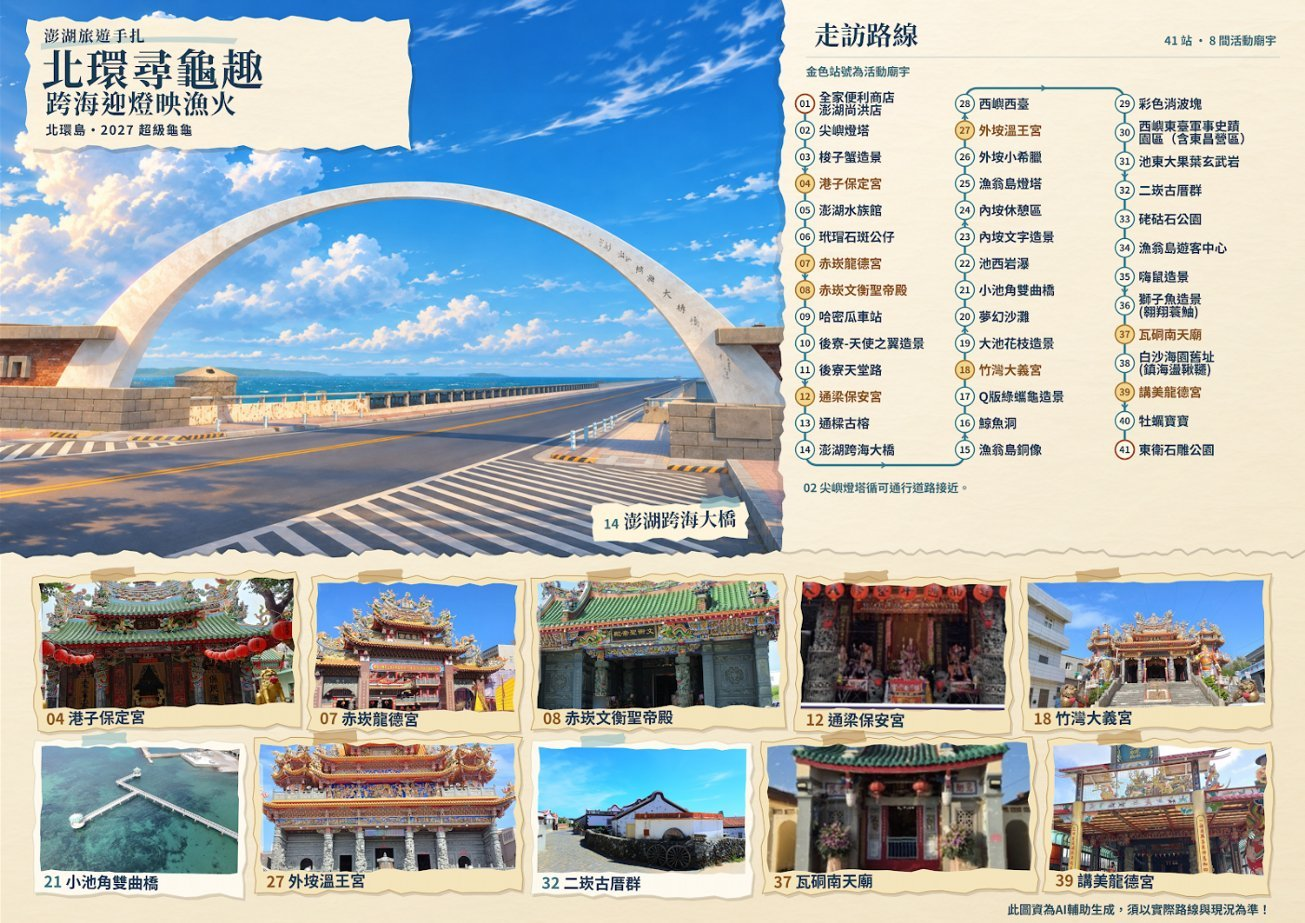
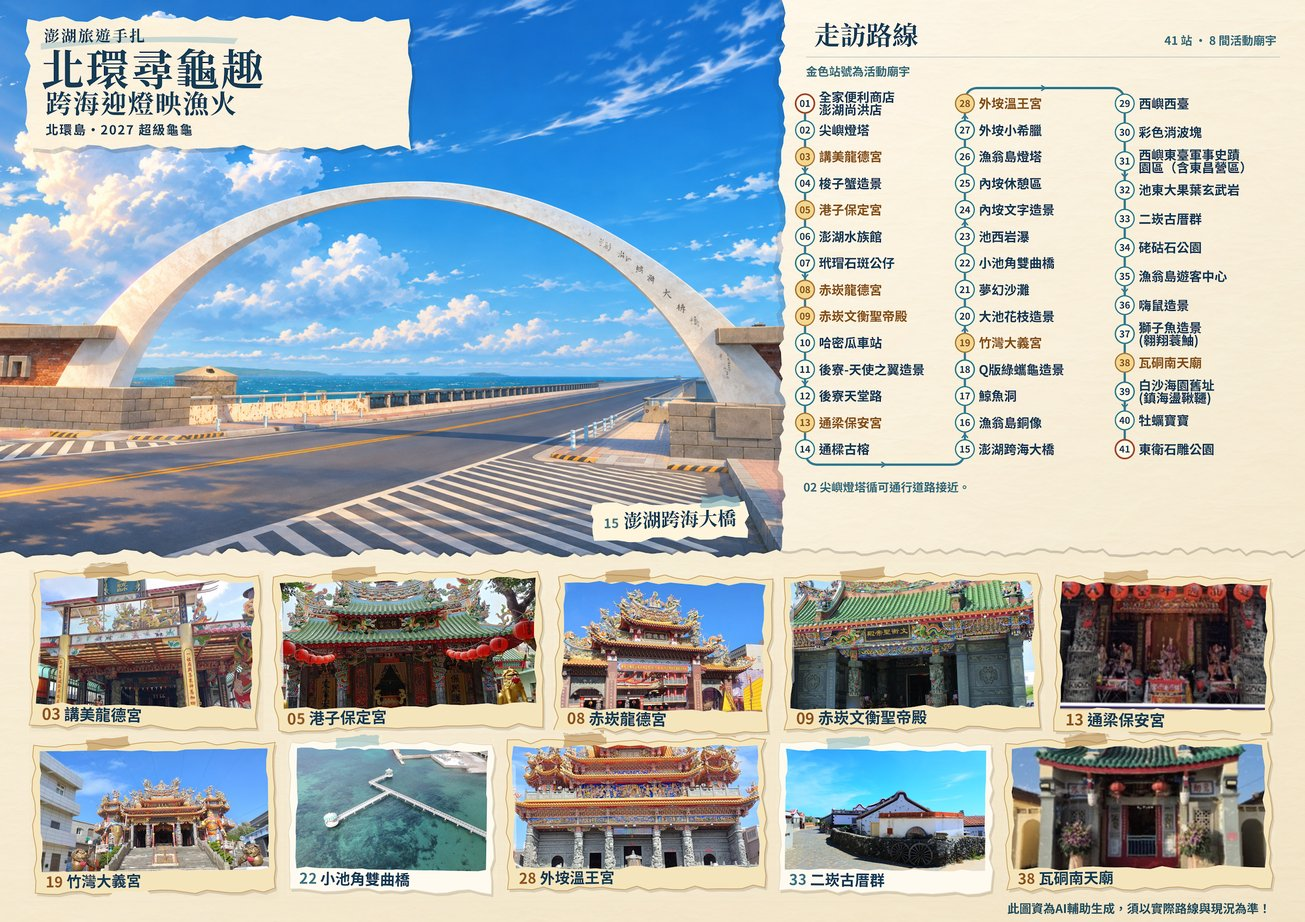
北環島：依新版路線DM更新站序與圖資（講美龍德宮改為03）
Claude-Session: https://claude.ai/code/session_01HgLVpJfKdPbhLtxxXVaDMx

diff --git a/data.js b/data.js
@@ -25,6 +25,12 @@ const ROUTES = [
      },
      {
       "n": 3,
+      "name": "講美龍德宮",
+      "t": "講美-龍德宮",
+      "tk": "講美-龍德宮@23.6324888,119.5988571"
+     },
+     {
+      "n": 4,
       "name": "梭子蟹造景",
       "pic": "1Czzuw9HyphtnWK4wGGaq4qwFqMhpqVzX",
       "place": "白沙鄉／鎮海村",
@@ -33,13 +39,13 @@ const ROUTES = [
       "lng": 119.5974808
      },
      {
-      "n": 4,
+      "n": 5,
       "name": "港子保定宮",
       "t": "港子-保定宮",
       "tk": "港子-保定宮@23.6489133,119.5997511"
      },
      {
-      "n": 5,
+      "n": 6,
       "name": "澎湖水族館",
       "pic": "1mvpMINSq6YpOrHgelwINVAgcqMt6oO91",
       "place": "白沙鄉／岐頭村",
@@ -49,7 +55,7 @@ const ROUTES = [
       "lng": 119.6038627
      },
      {
-      "n": 6,
+      "n": 7,
       "name": "玳瑁石斑公仔",
       "place": "白沙鄉／岐頭村",
       "desc": "位於白沙鄉岐頭村及跨海大橋旁的地景藝術，以澎湖縣魚「玳瑁石斑」為主題，魚身六角形魚鱗彩繪著澎湖各地海洋與人文意象。",
@@ -57,19 +63,19 @@ const ROUTES = [
       "lng": 119.6083619
      },
      {
-      "n": 7,
+      "n": 8,
       "name": "赤崁龍德宮",
       "t": "赤崁-龍德宮",
       "tk": "赤崁-龍德宮@23.6675224,119.6006196"
      },
      {
-      "n": 8,
+      "n": 9,
       "name": "赤崁文衡聖帝殿",
       "t": "赤崁-文衡聖帝殿",
       "tk": "赤崁-文衡聖帝殿@23.6699629,119.6002166"
      },
      {
-      "n": 9,
+      "n": 10,
       "name": "哈密瓜車站",
       "pic": "1LFeggbkD44xyHqjQVZDyzBGmC7PzCowf",
       "place": "白沙鄉／後寮村",
@@ -78,7 +84,7 @@ const ROUTES = [
       "lng": 119.5712313
      },
      {
-      "n": 10,
+      "n": 11,
       "name": "後寮-天使之翼造景",
       "pic": "18S7O4EjL-t4oKD3eTFFRtkDYSM175vax",
       "place": "白沙鄉／後寮村",
@@ -87,7 +93,7 @@ const ROUTES = [
       "lng": 119.5772578
      },
      {
-      "n": 11,
+      "n": 12,
       "name": "後寮天堂路",
       "pic": "1f2LajtB2_nktp7ZrF5lWVF3IjD9juAF_",
       "place": "白沙鄉／後寮村",
@@ -96,13 +102,13 @@ const ROUTES = [
       "lng": 119.5783015
      },
      {
-      "n": 12,
+      "n": 13,
       "name": "通梁保安宮",
       "t": "保安宮",
       "tk": "保安宮@23.6570217,119.5573742"
      },
      {
-      "n": 13,
+      "n": 14,
       "name": "通樑古榕",
       "pic": "1e5SD2V9jrsbQbtkVoA4olTd0scl1pScV",
       "place": "白沙鄉／通梁村",
@@ -111,7 +117,7 @@ const ROUTES = [
       "lng": 119.557313
      },
      {
-      "n": 14,
+      "n": 15,
       "name": "澎湖跨海大橋",
       "pic": "1jAIIZdBO3cQJJBii_HdDX_r2QKco3Z4N",
       "place": "白沙鄉／通梁村",
@@ -125,7 +131,7 @@ const ROUTES = [
     "title": "西嶼・西岸",
     "stops": [
      {
-      "n": 15,
+      "n": 16,
       "name": "漁翁島銅像",
       "place": "西嶼鄉／橫礁村",
       "desc": "矗立於西嶼鄉橫礁村、澎湖跨海大橋西嶼端橋頭逾三十年的代表性地標，銅像刻畫頭戴斗笠、手握船槳與漁獲的傳統漁翁形象，象徵西嶼「漁翁島」的討海精神。",
@@ -133,7 +139,7 @@ const ROUTES = [
       "lng": 119.5396532
      },
      {
-      "n": 16,
+      "n": 17,
       "name": "鯨魚洞",
       "pic": "1gRPh1NXkQzrAaXQc9m2A-BLJOln2U3H8",
       "place": "西嶼鄉／小門村",
@@ -142,7 +148,7 @@ const ROUTES = [
       "lng": 119.5198044
      },
      {
-      "n": 17,
+      "n": 18,
       "name": "Q版綠蠵龜造景",
       "pic": "1YFIhMiviXAi2Q5BuYSE2jQ_8ctqJ7oFN",
       "place": "西嶼鄉／竹灣村",
@@ -151,13 +157,13 @@ const ROUTES = [
       "lng": 119.5170189
      },
      {
-      "n": 18,
+      "n": 19,
       "name": "竹灣大義宮",
       "t": "竹灣-大義宮",
       "tk": "竹灣-大義宮@23.6329013,119.5213709"
      },
      {
-      "n": 19,
+      "n": 20,
       "name": "大池花枝造景",
       "pic": "1wTTFmwLMzyrbmhT0hRJ1SJyFX1BzyFhq",
       "place": "西嶼鄉／大池村",
@@ -166,7 +172,7 @@ const ROUTES = [
       "lng": 119.5132683
      },
      {
-      "n": 20,
+      "n": 21,
       "name": "夢幻沙灘",
       "pic": "1k2uHLI4kSS3s71X1oVEW6OIYEcrTcRoi",
       "place": "西嶼鄉／大池村",
@@ -175,7 +181,7 @@ const ROUTES = [
       "lng": 119.5088655
      },
      {
-      "n": 21,
+      "n": 22,
       "name": "小池角雙曲橋",
       "pic": "1tWe0hHYKGHZsZdAiJ53O9Nv0IIyszbpc",
       "place": "西嶼鄉／池西村",
@@ -184,7 +190,7 @@ const ROUTES = [
       "lng": 119.5044665
      },
      {
-      "n": 22,
+      "n": 23,
       "name": "池西岩瀑",
       "pic": "1N0FUGb1yvA5jMHYxsztzVHW52SJub2AJ",
       "place": "西嶼鄉／池西村",
@@ -193,7 +199,7 @@ const ROUTES = [
       "lng": 119.5024858
      },
      {
-      "n": 23,
+      "n": 24,
       "name": "內垵文字造景",
       "pic": "1XBjLXMhN6r8jFFCinab2wgOQNCzSf82q",
       "place": "西嶼鄉／赤馬村",
@@ -202,7 +208,7 @@ const ROUTES = [
       "lng": 119.5025922
      },
      {
-      "n": 24,
+      "n": 25,
       "name": "內垵休憩區",
       "pic": "1abPZoDKnOpgvYaMsYqM5JBuaPxqEdAI6",
       "place": "西嶼鄉／內垵村",
@@ -211,7 +217,7 @@ const ROUTES = [
       "lng": 119.4938758
      },
      {
-      "n": 25,
+      "n": 26,
       "name": "漁翁島燈塔",
       "pic": "1LTZsU2z_-FbleTj7v1nK8XX_jYgcmMEz",
       "place": "西嶼鄉／外垵村",
@@ -221,18 +227,18 @@ const ROUTES = [
       "lng": 119.4691038
      },
      {
-      "n": 26,
+      "n": 27,
       "name": "外垵小希臘",
       "pic": "1MjsRhbwYcR8jL2OpL3m5v_OrYsaWXiEI"
      },
      {
-      "n": 27,
+      "n": 28,
       "name": "外垵溫王宮",
       "t": "外垵-温王宮",
       "tk": "外垵-温王宮@23.5647630,119.4828470"
      },
      {
-      "n": 28,
+      "n": 29,
       "name": "西嶼西臺",
       "place": "西嶼鄉／外垵村",
       "desc": "澎湖現存規模最大、最完整的清代海防砲臺，扼守馬公港西側。原址砲臺曾於1717年及中法戰爭時重建，1887至1889年間由澎湖總兵吳宏洛在德籍技師協助下全面改建，配置英國阿姆斯壯後膛砲與一對銅砲，外門石額為劉銘傳親題；磚造拱道、營舍、砲位與雙重土垣保存良好，為國定古蹟。",
@@ -240,7 +246,7 @@ const ROUTES = [
       "lng": 119.489722
      },
      {
-      "n": 29,
+      "n": 30,
       "name": "彩色消波塊",
       "pic": "1uj-278MZEr1Ous8MHI1GQXxSvReLpKIH",
       "place": "西嶼鄉／內垵村",
@@ -254,7 +260,7 @@ const ROUTES = [
     "title": "西嶼東岸・北環折返",
     "stops": [
      {
-      "n": 30,
+      "n": 31,
       "name": "西嶼東臺軍事史蹟園區（含東昌營區）",
       "place": "西嶼鄉／內垵村",
       "desc": "清光緒13至15年（1887–1889）劉銘傳主政時，由澎湖總兵吳宏洛督建的海防砲臺，原配英國阿姆斯壯後膛砲，扼守馬公港南側航道；日治時期1901年改裝12吋砲，1941年除役。方形土垣、乾壕、磚造拱頂營舍及砲位保存完整，為國定古蹟。",
@@ -262,12 +268,12 @@ const ROUTES = [
       "lng": 119.5081224
      },
      {
-      "n": 31,
+      "n": 32,
       "name": "池東大果葉玄武岩",
       "pic": "11qwDxXofrwUpLi1uk77T47yhGIoWTOCv"
      },
      {
-      "n": 32,
+      "n": 33,
       "name": "二崁古厝群",
       "pic": "1YgYOqD5K7EoaBegXdXnS3cNvlqKh8O59",
       "place": "西嶼鄉／二崁村",
@@ -276,7 +282,7 @@ const ROUTES = [
       "lng": 119.519615
      },
      {
-      "n": 33,
+      "n": 34,
       "name": "硓𥑮石公園",
       "pic": "1I8IFtwczG7C1al7X4VgRWpXvK26p_Wxq",
       "place": "西嶼鄉／合界村",
@@ -285,11 +291,11 @@ const ROUTES = [
       "lng": 119.5329884
      },
      {
-      "n": 34,
+      "n": 35,
       "name": "漁翁島遊客中心"
      },
      {
-      "n": 35,
+      "n": 36,
       "name": "嗨鼠造景",
       "pic": "1ZxnTJs_UjLoi1QIhClcbnN-MIYcdPcBa",
       "place": "白沙鄉／後寮村",
@@ -298,7 +304,7 @@ const ROUTES = [
       "lng": 119.5741878
      },
      {
-      "n": 36,
+      "n": 37,
       "name": "獅子魚造景（翱翔蓑鮋）",
       "pic": "1Bm-3MqqpbvdaWXjo590MWmeBcoQKtkT4",
       "place": "白沙鄉／瓦硐村",
@@ -307,25 +313,19 @@ const ROUTES = [
       "lng": 119.585744
      },
      {
-      "n": 37,
+      "n": 38,
       "name": "瓦硐南天廟",
       "t": "南天廟",
       "tk": "南天廟@23.6565850,119.5887018"
      },
      {
-      "n": 38,
+      "n": 39,
       "name": "白沙海園舊址（鎮海盪鞦韆）",
       "pic": "1FfwE-tDE3Me5YQihdJA-1Vlue8l1F0W_",
       "place": "白沙鄉／鎮海村",
       "desc": "位於白沙鄉鎮海村海濱（原白沙海園舊址），在潔白沙灘與木麻黃林間設置直接面向湛藍內海與大倉島的海景盪鞦韆。",
       "lat": 23.6426267,
       "lng": 119.5920778
-     },
-     {
-      "n": 39,
-      "name": "講美龍德宮",
-      "t": "講美-龍德宮",
-      "tk": "講美-龍德宮@23.6324888,119.5988571"
      },
      {
       "n": 40,
@@ -348,15 +348,15 @@ const ROUTES = [
    }
   ],
   "feat": [
-   5,
-   11,
-   13,
+   6,
+   12,
    14,
-   16,
-   22,
-   25,
-   31,
-   32
+   15,
+   17,
+   23,
+   26,
+   32,
+   33
   ],
   "walk": ""
  },

diff --git a/sw.js b/sw.js
@@ -1,4 +1,4 @@
-const VERSION = 'lantern-2027-v2';
+const VERSION = 'lantern-2027-v3';
 const SHELL_CACHE = `lantern-shell-${VERSION}`;
 const DATA_CACHE = 'lantern-sheet-data';
 const LIB_CACHE = 'lantern-libs';
